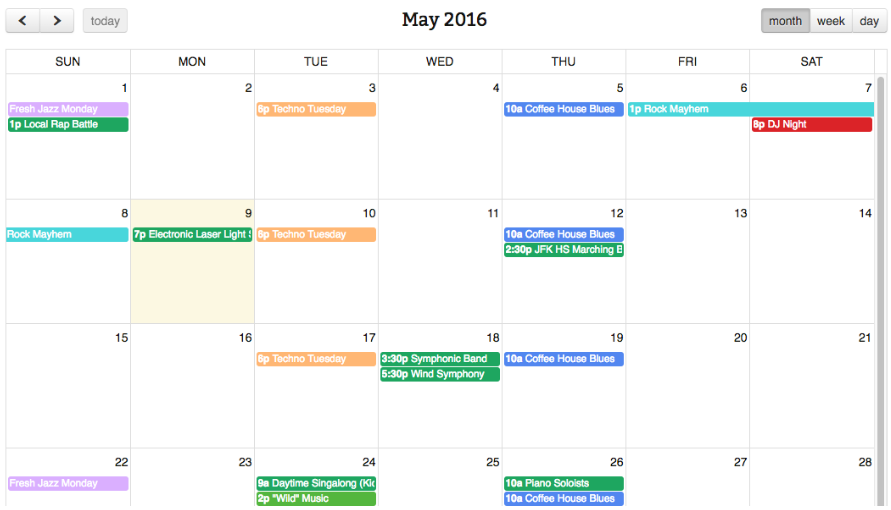
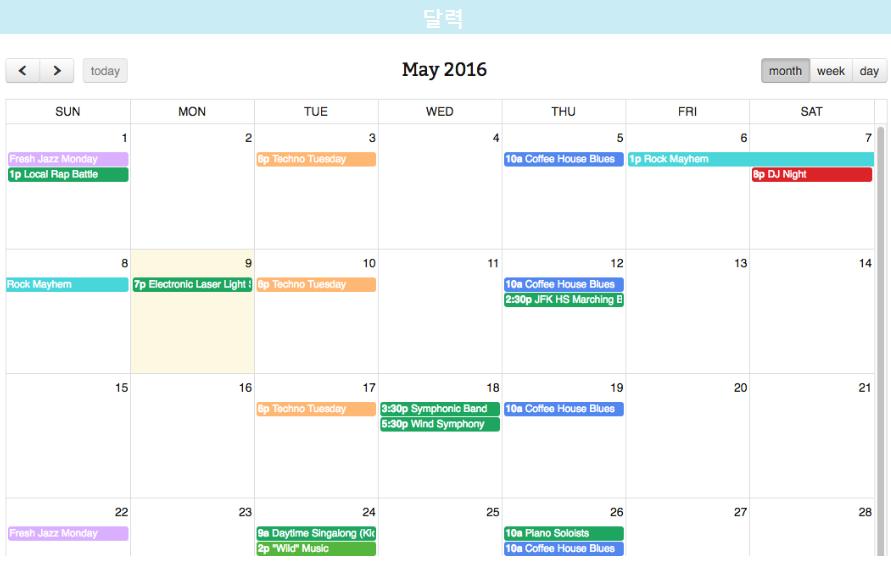
canvas looping success

diff --git a/index.html b/index.html
@@ -2,59 +2,59 @@
 <html lang="en">
 <head>
     <meta charset="UTF-8">
+    <script type="text/javascript" src="basic_ui.js"></script>
     <meta name="viewport" content="width=device-width, initial-scale=1.0, maximum-scale=1.0, user-scalable=0" />
     <style>
         html, body{
             width: 98%;
             height: 98%;
-            padding: 0;
             background-color: #ffffff;
         }
         .MainContent{
             position: relative;
             display: block;
             background: #ffffff;
-            margin: 1%;
-            height: 98%;
-            box-shadow: 0 2px 5px rgba(11, 12, 12, 0.16);
+            height: 100%;
+            box-shadow: 0 2px 10px rgba(11,13,12, 0.2);
         }
         .HeaderContent{
             position: relative;
             display: block;
-            background: skyblue;
-
-            margin: 0 auto;
+            background: #ffffff;
             height: 15%;
-            text-align: center;
-
-            box-shadow: 0 2px 5px rgba(11, 12, 12, 0.16);
+            box-shadow: 0 2px 10px rgba(11,13,12, 0.2);
         }
         .HeaderContent .logo{
-            position: absolute;
-            margin-top: 20px;
-            margin-left: 80px;
-        }
+            padding: 5%;
+            vertical-align: center;
+            text-align: center;
 
+        }
+        .LobbyContent {
+            height: 83%;
+            position: relative;
+            display: block;
+        }
         .MiddleContent{
             position: relative;
             display: block;
             background: #ffffff;
             margin: 3%;
             width: 94%;
-            height: 52%;
+            height: 50%;
             text-align: center;
             background: url('./public/resource/calendar.png');
-            background-size: contain;
-            box-shadow: 0 2px 5px rgba(11, 12, 12, 0.16);
+            background-repeat:no-repeat;
+            background-size:cover;
             transition: all 0.5s ease;
         }
         .MiddleContent:hover{
              opacity: 0.5;
         }
         .HeaderContent a{
-            color: #ffffff;
+            color: #000000;
             font-weight: bold;
-            font-family: Arial;
+            font-family: Calibri;
             font-size: 35px;
         }
         .FooterContent{
@@ -68,12 +68,11 @@
             display: block;
             background: #ffffff;
             margin: 0 1%;
-            width: 48%;
-            height: 24vh;
+            width: 46%;
             text-align: center;
             background: url('./public/resource/memo.png');
-            background-size: contain;
-            box-shadow: 0 2px 5px rgba(11, 12, 12, 0.16);
+            background-repeat:no-repeat;
+            background-size:cover;
         }
         .MemoContent:hover{
             opacity: 0.5;
@@ -85,36 +84,49 @@
             background: #ffffff;
             margin: 0 1%;
             width: 46%;
-            height: 24vh;
             text-align: center;
             background: url('./public/resource/event.png');
-            background-size: contain;
-            box-shadow: 0 2px 5px rgba(11, 12, 12, 0.16);
+            background-repeat:no-repeat;
+            background-size:cover;
         }
         .EventContent:hover{
             opacity: 0.5;
+        }
+        .MemoCanvas{
+            margin: 1%;
+            display: none;
+            width: auto;
         }
     </style>
     <title>Family Hub</title>
 </head>
 <body>
     <div class="MainContent">
-        <div class = "HeaderContent">
-            <div class = "logo">
+        <div class="HeaderContent">
+            <div class="logo">
                 <a> Family Hub </a>
             </div>
         </div>
-        <div class = "MiddleContent">
+        <div class="LobbyContent" id="LobbyContent">
 
-        </div>
-        <div class = "FooterContent">
-            <div class = "MemoContent">
+            <div class="MiddleContent"id ="MiddleContent">
 
             </div>
-            <div class = "EventContent">
+            <div class = "FooterContent" id ="FooterContent">
+                <div class="MemoContent" id = "MemoContent" onclick="onclick_memo()">
 
+                </div>
+                <div class="EventContent" id = "EventContent">
+
+                </div>
             </div>
+            <canvas class="MemoCanvas" id="MemoCanvas"  style="border:1px solid #000000;">
+
+            </canvas>
         </div>
     </div>
+    <script>
+        draw(); // ui resize
+    </script>
 </body>
 </html>

diff --git a/basic_ui.js b/basic_ui.js
@@ -1,3 +1,57 @@
-/**
- * Created by LG on 2016-10-31.
- */
+var canvas;
+var ctx;
+
+function onclick_memo(){
+    //lobby ui --> memo ui
+    document.getElementById('MiddleContent').style.display = 'none';
+    document.getElementById('FooterContent').style.display = 'none';
+    document.getElementById('MemoCanvas').style.display = 'block';
+    resize_canvas();
+}
+
+function resize_canvas() {
+    canvas = document.getElementById("MemoCanvas");
+    ctx = canvas.getContext("2d");
+    ctx.canvas.width  = document.getElementById('LobbyContent').clientWidth * 980 / 1000;
+    ctx.canvas.height = document.getElementById('LobbyContent').clientHeight * 980 / 1000;
+
+    //start loop
+    init();
+}
+
+
+function draw() {
+    // ui resize
+    var w = document.getElementById('MemoContent').clientWidth;
+    document.getElementById('MemoContent').style.height = w + "px";
+    w = document.getElementById('EventContent').clientWidth;
+    document.getElementById('EventContent').style.height = w + "px";
+}
+
+
+var fps = 10;
+var position = {};
+
+function init(){
+    alert("A");
+    setInterval(gameLoop, 1000/fps);
+}
+
+function gameLoop(){
+    update();
+    display();
+}
+
+function update(){
+    //Set Rectangle Position(Random Positioning In Canvas)
+    position.x = Math.floor(Math.random() * (canvas.width - 20));  //0~480
+    position.y = Math.floor(Math.random() * (canvas.height - 20)); //0~380
+
+    //Set Random Coloring
+    ctx.fillStyle = 'rgb(' + Math.floor(Math.random() * 255) + ','
+        + Math.floor(Math.random() * 255) + ',' + Math.floor(Math.random() * 255) + ')';
+}
+
+function display(){
+    ctx.fillRect(position.x, position.y, 20, 20);
+}
